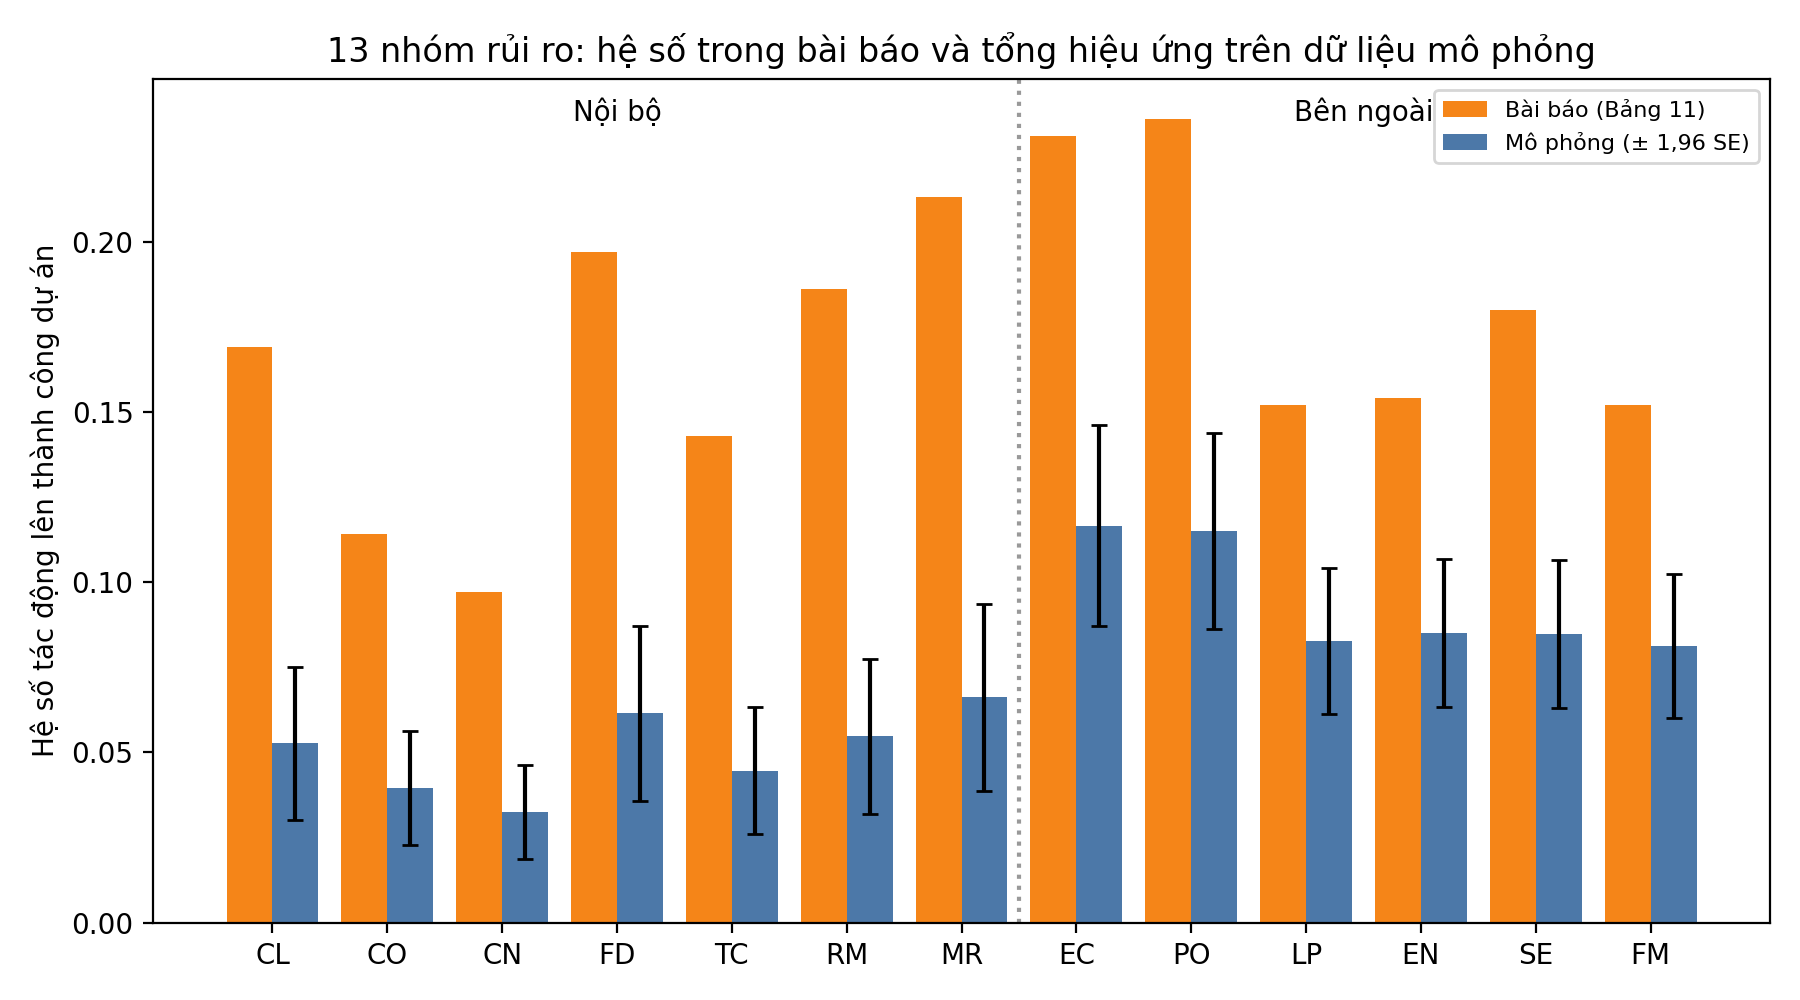
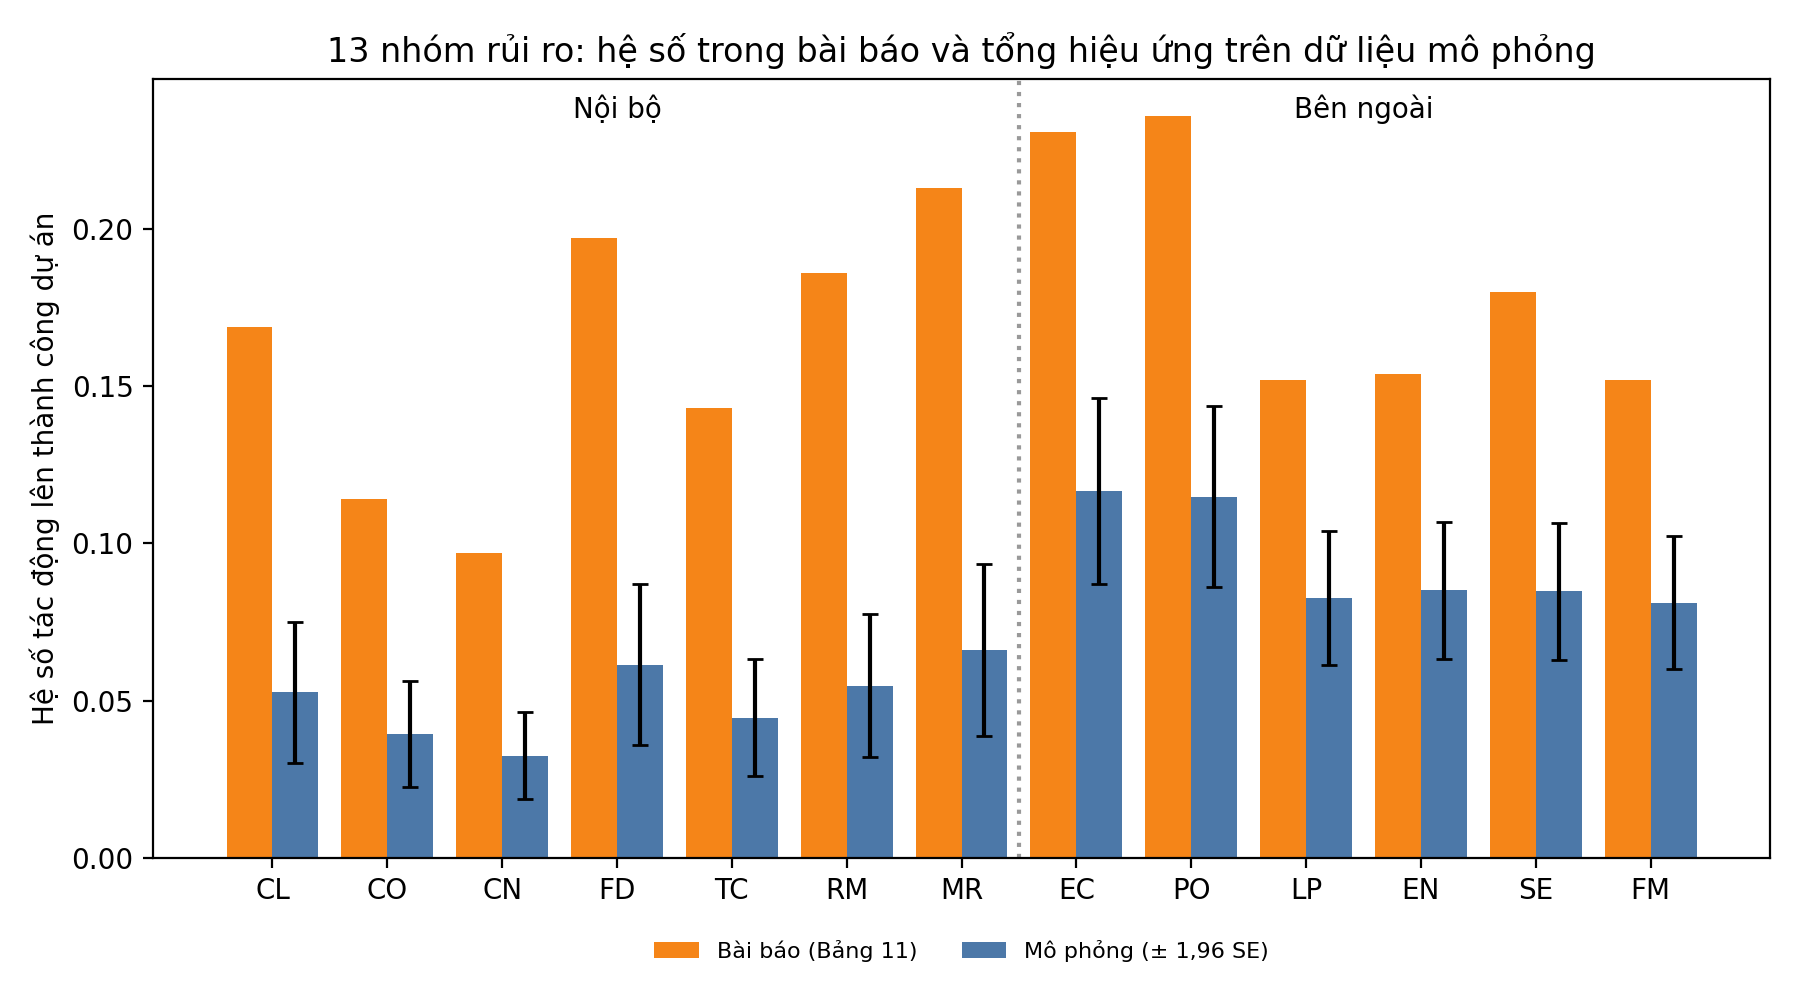
fix(src): chuyển chú thích hình so sánh hệ số xuống dưới trục

diff --git a/src/phan_tich_mo_phong.py b/src/phan_tich_mo_phong.py
@@ -273,7 +273,7 @@ def ve_so_sanh(th):
     ax.axvline(6.5, color="#999", ls=":")
     ax.text(3, ax.get_ylim()[1] * 0.95, "Nội bộ", ha="center")
     ax.text(9.5, ax.get_ylim()[1] * 0.95, "Bên ngoài", ha="center")
-    ax.legend(fontsize=8)
+    ax.legend(fontsize=8, loc="upper center", bbox_to_anchor=(0.5, -0.08), ncol=2, frameon=False)
     fig.tight_layout()
     fig.savefig(FIGURES / "mp_so_sanh_he_so.png", dpi=200)
     plt.close(fig)
